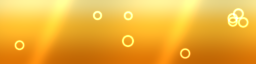
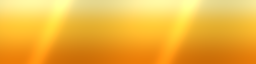
Energy bar: brighter gold liquid, bloom, rippling surface, rising bubbles, top highlight

diff --git a/core/src/com/spaceship/handlers/EnergyBar.java b/core/src/com/spaceship/handlers/EnergyBar.java
@@ -80,13 +80,37 @@ public class EnergyBar {
 			float lx = x + IN_X0*sx, ly = y + IN_Y0*sy, lh = (IN_Y1 - IN_Y0)*sy;
 			float scroll = t*0.22f;
 			float u0 = scroll, u1 = scroll + w/64f;
+			// the liquid in horizontal bands whose ends sway, so the surface ripples (harder while the level changes)
+			float full = fullW*sx;
+			float amp = level > 0.995f ? 0f : (0.3f + 2.2f*surge)*sx;
+			int bands = 8;
+			float bh = lh/bands;
 			sb.setColor(tint.r, tint.g, tint.b, a);
-			sb.draw(liquid, lx, ly, w*sx, lh, u0, 0f, u1, 1f);
-			// slower counter-flowing shimmer on top
+			for (int i = 0; i < bands; i++) {
+				float bw = MathUtils.clamp(w*sx + amp*MathUtils.sin(t*2.6f + i*0.85f), 1f, full);
+				sb.draw(liquid, lx, ly + (bands - 1 - i)*bh, bw, bh + 1f, u0, (i + 0.5f)/bands - 0.5f/64f*0f + 0.008f, scroll + bw/sx/64f, (i + 0.5f)/bands + 0.5f/bands - 0.008f);
+			}
 			Fx.additiveOn(sb);
-			sb.setColor(tint.r, tint.g, tint.b, a*0.07f);
+			// bloom: the liquid added on top so it glows like the shield, plus a slower counter-flowing shimmer
+			sb.setColor(tint.r, tint.g, tint.b, a*0.14f);
+			sb.draw(liquid, lx, ly, w*sx, lh, u0, 0f, u1, 1f);
+			sb.setColor(tint.r, tint.g, tint.b, a*0.09f);
 			float v0 = -scroll*0.6f + 0.35f;
 			sb.draw(liquid, lx, ly, w*sx, lh, v0, 0f, v0 + w/64f, 1f);
+			// glossy highlight along the top of the liquid
+			sb.setColor(1f, 0.97f, 0.8f, a*(0.11f + 0.05f*MathUtils.sin(t*1.7f)));
+			sb.draw(Fx.glow(), lx, ly + lh*0.66f, w*sx, lh*0.3f);
+			// bubbles drifting up through the liquid
+			for (int i = 0; i < 9; i++) {
+				float rise = (t*(0.16f + 0.05f*(i % 3)) + i*0.37f) % 1f;
+				float bx = (i*0.618034f % 1f)*w + 1.2f*MathUtils.sin(t*1.8f + i*2.1f);
+				if (bx < 1f || bx > w - 1f)
+					continue;
+				float bs = (1.5f + 0.5f*(i % 3))*sx;
+				float fade = Math.min(1f, rise*6f)*Math.min(1f, (1f - rise)*5f);
+				sb.setColor(1f, 0.96f, 0.75f, a*0.55f*fade);
+				sb.draw(Fx.glow(), lx + bx*sx - bs, ly + lh*0.1f + rise*lh*0.8f - bs, bs*2f, bs*2f);
+			}
 			// glowing tip where the liquid ends, brighter while the level is changing
 			float tw = 12f*sx*(1f + 0.5f*surge);
 			sb.setColor(tint.r, tint.g, tint.b, a*(0.45f + 0.5f*surge));

diff --git a/tools/art/energy.py b/tools/art/energy.py
@@ -147,9 +147,9 @@ def liquid_tile(K):
     y = (yy + 0.5) / K / h          # 0 top .. 1 bottom
     TAU = 2 * np.pi
     # vertical gradient: bright top -> rich gold -> deep amber bottom
-    top = np.array([255, 236, 150], dtype=np.float32)
-    mid = np.array([255, 190, 46], dtype=np.float32)
-    bot = np.array([214, 112, 4], dtype=np.float32)
+    top = np.array([255, 240, 160], dtype=np.float32)
+    mid = np.array([255, 196, 52], dtype=np.float32)
+    bot = np.array([226, 120, 8], dtype=np.float32)
     t1 = smooth(0.0, 0.45, y)[..., None]
     t2 = smooth(0.35, 1.0, y)[..., None]
     rgb = top * (1 - t1) + mid * t1
@@ -162,7 +162,7 @@ def liquid_tile(K):
     rgb = rgb + streak[..., None] * np.array([95, 75, 25])
     # bubbles
     rng = np.random.RandomState(7)
-    for _ in range(9):
+    for _ in range(0):  # bubbles are animated in EnergyBar now
         bx, by, br = rng.uniform(0, 64), rng.uniform(0.2, 0.85) * 16, rng.uniform(0.7, 1.4)
         for ox in (-64, 0, 64):
             d = np.hypot(x - (bx + ox), (y * 16) - by)
